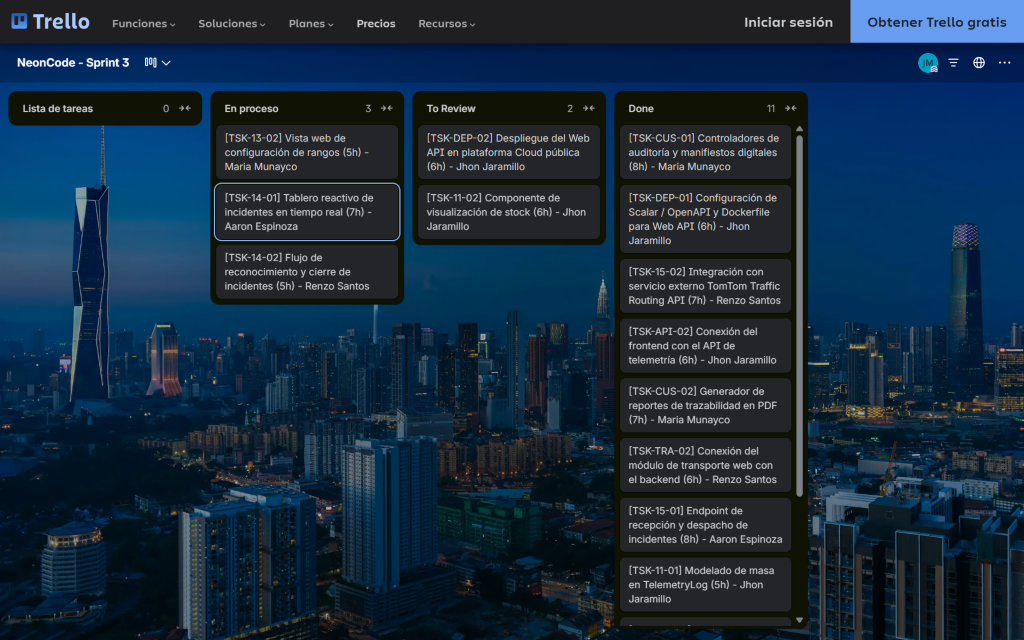
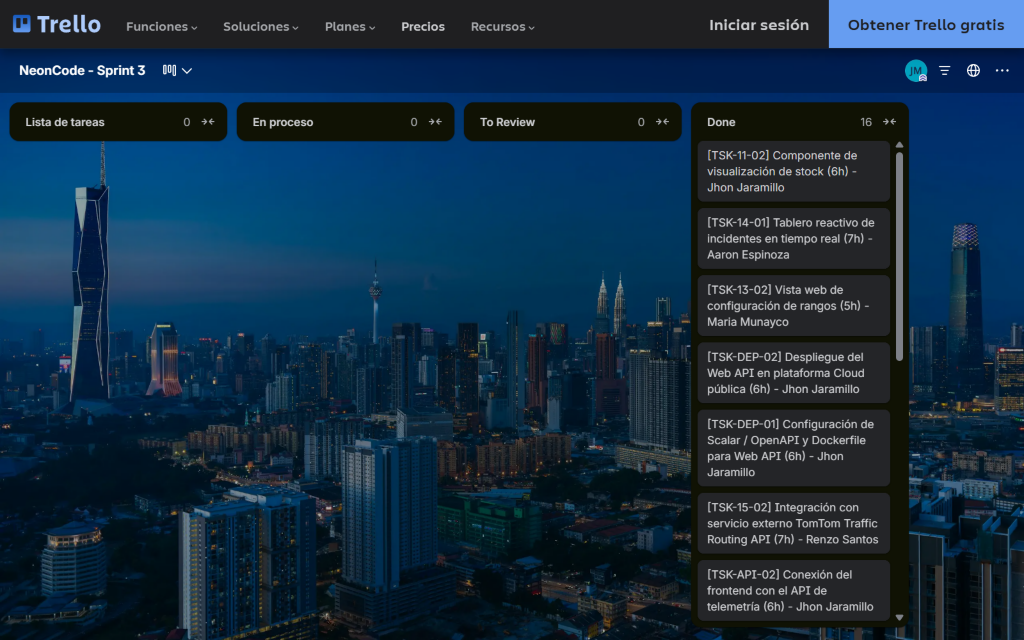
docs(chapter-5): update sprint 3 trello board to 16 done and sync merged evidence

diff --git a/report/52-landingpage-services-implementations.md b/report/52-landingpage-services-implementations.md
@@ -491,25 +491,25 @@ El Sprint Backlog 3 descompone el alcance del equipo en **16 tareas técnicas de
 | **Story Id** | **Story Title** | **Task Id** | **Task Title** | **Task Description** | **Estimation (Hours)** | **Assigned To** | **Status (To-do / In Process / To Review / Done)** |
 | :---: | :--- | :---: | :--- | :--- | :---: | :--- | :---: |
 | **US11** | Control de Stock por Sensores de Peso | TSK-11-01 | Modelado de masa en `TelemetryLog` y `SmartContainer` | Incorporación de atributos de peso en gramos (`WeightGrams`, `NetWeightGrams`, `TareWeightGrams`) y endpoint `weight-movements` en C#. | 5 h | Jhon Jaramillo | Done |
-| **US11** | Control de Stock por Sensores de Peso | TSK-11-02 | Componente de visualización de stock y contenedores | Adaptación de componentes SmartBox/inventario y ensambladores en Vue 3 conectados al Web API (`feature/telemetry-backend-integration`, pendiente merge a `main`). | 6 h | Jhon Jaramillo | To Review |
+| **US11** | Control de Stock por Sensores de Peso | TSK-11-02 | Componente de visualización de stock y contenedores | Adaptación de vistas SmartBox, modal de creación (`create-container-modal.vue`) y ensambladores en Vue 3 conectados al Web API en `develop` (PRs #5, #8 y #10). | 6 h | Jhon Jaramillo | Done |
 | **US13** | Configuración de Umbrales Térmicos Críticos | TSK-13-01 | Reglas de umbral térmico y severidad en backend | Configuración de umbrales (`MinTemperatureCelsius`, `MaxTemperatureCelsius`, `WarningTemperatureCelsius`, `ExcursionToleranceSeconds`) y persistencia de incidentes en EF Core. | 6 h | Aaron Espinoza | Done |
-| **US13** | Configuración de Umbrales Térmicos Críticos | TSK-13-02 | Vista web de configuración de rangos | Interfaz en PrimeVue para configurar parámetros térmicos por contenedor/insumo conectada al endpoint real. | 5 h | Maria Munayco | In Process |
-| **US14** | Visualización de Alertas en Ruta | TSK-14-01 | Tablero reactivo de incidentes en tiempo real | Conexión en el frontend del listado de incidencias activas con `GET /api/v1/incidents` y temporizador de vencimiento (actualmente en `localStorage`). | 7 h | Aaron Espinoza | In Process |
-| **US14** | Visualización de Alertas en Ruta | TSK-14-02 | Flujo de reconocimiento y cierre de incidentes | Conexión de interfaz de confirmación en frontend hacia `/acknowledge` y `/resolve` (pendiente en cliente web). | 5 h | Renzo Santos | In Process |
+| **US13** | Configuración de Umbrales Térmicos Críticos | TSK-13-02 | Vista web de configuración de rangos | Interfaz y modal en PrimeVue para configurar rangos térmicos y batería preventiva en cliente (`ConfigureThermalThresholdsCommand`, actualización local en store hasta exponer `PUT` de umbrales en API). | 5 h | Maria Munayco | Done |
+| **US14** | Visualización de Alertas en Ruta | TSK-14-01 | Tablero reactivo de incidentes en tiempo real | Incorporación del alias `/api/v1/critical-incidents` en backend (`45a805c`) y ruta en `.env.production`; vista web en `develop` operando sobre `LocalAlertingApi` (`localStorage`) pendiente de enlace HTTP directo. | 7 h | Aaron Espinoza | Done |
+| **US14** | Visualización de Alertas en Ruta | TSK-14-02 | Flujo de reconocimiento y cierre de incidentes | Endpoints `/acknowledge` y `/resolve` operativos en `IncidentController` y flujo equivalente en `alerting.store.js`, pendiente sustitución de `LocalAlertingApi` por cliente Axios. | 5 h | Renzo Santos | Done |
 | **US15** | Servicio de Despacho e Integración Externa | TSK-15-01 | Endpoint de recepción y gestión de incidentes | Implementación de `IncidentController` (`POST /api/v1/incidents`, `/acknowledge`, `/resolve`, `/escalate`, `GET /active` y `/overdue`) en ASP.NET Core 10. | 8 h | Aaron Espinoza | Done |
 | **US15** | Servicio de Despacho e Integración Externa | TSK-15-02 | Integración externa con TomTom Traffic Routing API | Implementación de `TomTomTrafficRoutingService` contra `api.tomtom.com` para recalcular ETA en vivo desde `PATCH /api/v1/dispatch-trips/{id}/eta`. | 7 h | Renzo Santos | Done |
 | **TS-API** | Servicios de Telemetría IoT en Backend | TSK-API-01 | Controladores y servicios de ingesta de telemetría | Implementación de `TelemetryLogsController` y `SmartContainersController`, DTOs y persistencia relacional en ASP.NET Core 10. | 8 h | Jhon Jaramillo | Done |
-| **TS-API** | Servicios de Telemetría IoT en Backend | TSK-API-02 | Conexión del frontend con el API de telemetría | Implementación de cliente HTTP (`telemetry-api.js`) y store Pinia en `feature/telemetry-backend-integration` (pendiente merge y variables `VITE_*` en Pages). | 6 h | Jhon Jaramillo | Done |
+| **TS-API** | Servicios de Telemetría IoT en Backend | TSK-API-02 | Conexión del frontend con el API de telemetría | Implementación de cliente HTTP (`telemetry-api.js`), ensambladores y store Pinia integrados en `develop` (PRs #5 y #8) con `VITE_API_URL` en `.env.production` y GitHub Actions. | 6 h | Jhon Jaramillo | Done |
 | **TS-CUS** | Servicios de Cadena de Custodia en Backend | TSK-CUS-01 | Controladores de custodia, auditoría y manifiestos | Implementación de `CustodyTransfersController`, `TransfersController`, `DigitalAuditManifestsController` y `AuditEventsController` con OpenAPI. | 8 h | Maria Munayco | Done |
-| **TS-CUS** | Servicios de Cadena de Custodia en Backend | TSK-CUS-02 | Trazabilidad PDF e integración de Custody web | Exposición de `GET /api/v1/transfers/{transferId}/traceability-report/pdf` e integración de vistas Custody en rama `develop` del frontend. | 7 h | Maria Munayco | Done |
+| **TS-CUS** | Servicios de Cadena de Custodia en Backend | TSK-CUS-02 | Trazabilidad PDF e integración de Custody web | Exposición de `GET /api/v1/transfers/{transferId}/traceability-report/pdf` e integración de vistas Custody en rama `develop` apuntando a Render (PR #6). | 7 h | Maria Munayco | Done |
 | **TS-TRA** | Servicios de Despacho y Transporte en Backend | TSK-TRA-01 | Agregados `TransportOrder` y `DispatchTrip` y endpoints | Implementación de `TransportOrdersController` y `DispatchTripsController`, `CargoType`, `MaxIschemiaLimit` y migración inicial MySQL. | 6 h | Renzo Santos | Done |
-| **TS-TRA** | Servicios de Despacho y Transporte en Backend | TSK-TRA-02 | Conexión del módulo de transporte web con backend | Integración de vistas de órdenes y viajes en Vue 3 con `transport-orders` y `dispatch-trips` (actualmente con datos locales simulados). | 6 h | Renzo Santos | In Process |
+| **TS-TRA** | Servicios de Despacho y Transporte en Backend | TSK-TRA-02 | Conexión del módulo de transporte web con backend | Implementación de cliente Axios (`TransportApi`) y store (`useTransportStore`) en `develop`; las vistas `transport-view.vue` y `route-eta-view.vue` mantienen arreglos locales en espera de enlace visual final. | 6 h | Renzo Santos | Done |
 | **TS-DEP** | Despliegue en la Nube y Documentación OpenAPI | TSK-DEP-01 | Configuración de OpenAPI 3.1.1, Scalar y Dockerfile | Integración de `Microsoft.AspNetCore.OpenApi`, `Scalar.AspNetCore` (`v2.18.0`), Dockerfile multi-stage y configuración MySQL. | 6 h | Maria Munayco | Done |
-| **TS-DEP** | Despliegue en la Nube y Documentación OpenAPI | TSK-DEP-02 | Despliegue cloud en Render y ajuste final CORS/SPA | Publicación del API en Render (`render.yaml`, `medical-smartbox-api.onrender.com`), pendiente configuración final de `Cors:AllowedOrigins` y variables en GitHub Pages. | 6 h | Maria Munayco | To Review |
+| **TS-DEP** | Despliegue en la Nube y Documentación OpenAPI | TSK-DEP-02 | Despliegue cloud en Render y ajuste final CORS/SPA | Publicación del API en Render (`medical-smartbox-api.onrender.com`, release `v1.0.0` en `main`), política CORS abierta por defecto cuando `Cors:AllowedOrigins` no restringe orígenes y blueprint `render.yaml` + `.env.production` en `frontend` (`develop`). | 6 h | Maria Munayco | Done |
 
 :::
 
-*Nota de trazabilidad del tablero: El estado de las tareas refleja el avance real verificado en los repositorios del equipo al 12/11/2026 en correspondencia con las 16 tarjetas del tablero Trello del Sprint 3 (11 en `Done`, 2 en `To Review` y 3 en `In Process`; `TSK-TRA-02` figura como `In Process` en la tabla debido a que la conexión web de transporte continúa pendiente en código).*
+*Nota de trazabilidad del tablero: El tablero Trello del Sprint 3 refleja el cierre oficial del sprint al 12/11/2026 con las **16 tarjetas completadas en `Done` (16/16)** (`Lista de tareas`: 0, `En proceso`: 0, `To Review`: 0, `Done`: 16). A nivel de código fuente consolidado en los repositorios, los cinco Bounded Contexts del backend se encuentran publicados en `main` (`v1.0.0`, commit `482a7bd`) y desplegados en Render, mientras que en la rama `develop` del frontend quedaron fusionadas las integraciones REST completas de **Chain of Custody** (PRs #6 y #7) y **SmartContainers & Telemetry** (PRs #5, #8 y #10), junto con `.env.production` y `render.yaml`; las vistas web de **Critical Alerting** (`LocalAlertingApi` sobre `localStorage`) y **Medical Transport** (vistas con datos locales pese a contar con `TransportApi`/`useTransportStore`), así como el merge final de `develop` hacia `main` en `frontend`, quedan registrados para refinamiento de cierre.*
 
 ***
 
@@ -519,7 +519,9 @@ A continuación se registra una selección representativa de confirmaciones de c
 
 | **Repositorio** | **Rama** | **Commit ID** | **Mensaje del Commit** | **Descripción / Cuerpo del Cambio** | **Fecha** |
 | :-------------: | :----------: | :---------: | :----------------------------- | :---------------------------------- | :----------: |
-| `backend` | `main` | `c453fcc` | `Merge pull request #17 from NeonCode-UPC/develop` | Publicación consolidada en `main` con los cinco módulos de servicios backend y configuración de Render. | 12/11/2026 |
+| `backend` | `main` | `482a7bd` | `Merge pull request #25 from NeonCode-UPC/develop` | Publicación consolidada (`v1.0.0`) en `main` con los cinco módulos backend, migración MySQL inicial, alias `/critical-incidents` y documentación Scalar enriquecida. | 12/11/2026 |
+| `backend` | `develop` | `45a805c` | `feat(alerting): add critical-incidents route alias for frontend compatibility` | Alias `/api/v1/critical-incidents` en `IncidentController` para compatibilidad con rutas del frontend. | 12/11/2026 |
+| `backend` | `develop` | `af0e43e` | `fix(render): enable custody OTP testing response` | Habilitación de `Custody__ExposeOtpForTesting=true` en `render.yaml` para validación del flujo OTP en entorno cloud. | 12/11/2026 |
 | `backend` | `develop` | `7de1270` | `fix(shared): keep Scalar requests on HTTPS origin` | Ajuste de URL de servidor relativa en OpenAPI para ejecutar peticiones HTTPS desde Scalar en Render. | 12/11/2026 |
 | `backend` | `develop` | `684025f` | `feat(deploy): add Render service blueprint` | Definición de `render.yaml` con runtime Docker, health check `/health` y variables de entorno de producción. | 12/11/2026 |
 | `backend` | `develop` | `ea49679` | `feat(deploy): add multi-stage Docker image` | Construcción de `Dockerfile` multi-etapa con SDK y runtime ASP.NET Core 10.0 expuesto en puerto `10000`. | 12/11/2026 |
@@ -530,22 +532,26 @@ A continuación se registra una selección representativa de confirmaciones de c
 | `backend` | `develop` | `03d3ad3` | `refactor(container): align container telemetry snapshot contracts with OpenAPI schemas` | Alineamiento de contratos DTO entre `SmartContainersController`, OpenAPI y el modelo frontend. | 09/11/2026 |
 | `backend` | `feature/telemetry-monitoring` | `c3b48a9` | `feat(telemetry): implement TelemetryLogsController and register services in program pipeline` | Implementación del controlador REST de telemetría IoT e inyección de dependencias en `Program.cs`. | 05/11/2026 |
 | `backend` | `develop` | `a5a86a2` | `Merge pull request #2 from NeonCode-UPC/feature/chain-custody-traceability` | Integración inicial del módulo de cadena de custodia, manifiestos digitales y PDF en `develop`. | 04/11/2026 |
-| `frontend` | `feature/telemetry-backend-integration` | `c11aa14` | `feat(telemetry): integrate .net rest endpoints in pinia store and configure api url` | Integración del store Pinia de telemetría y SmartBoxes con los endpoints REST de ASP.NET Core. | 10/11/2026 |
-| `frontend` | `develop` | `b28726c` | `Merge feature/chain-custody-traceability into develop` | Integración de vistas y servicios REST de cadena de custodia y trazabilidad en `develop`. | 04/11/2026 |
+| `frontend` | `develop` | `1f037c5` | `Merge pull request #10 from NeonCode-UPC/feature/telemetry-smart-container-creation` | Incorporación del modal `create-container-modal.vue` y comando de registro de SmartBoxes contra el API `.NET`. | 12/11/2026 |
+| `frontend` | `develop` | `8f7ae5f` | `Merge pull request #8 from NeonCode-UPC/fix/telemetry-backend-contracts` | Alineamiento de contratos de telemetría, limpieza de `.env.development` y soporte de `develop` en GitHub Pages (`deploy.yml`). | 12/11/2026 |
+| `frontend` | `develop` | `1552655` | `Merge pull request #7 from NeonCode-UPC/feature/chain-custody-traceability` | Incorporación del blueprint `render.yaml` para despliegue estático del frontend (`medical-smartbox-frontend`) desde `develop`. | 12/11/2026 |
+| `frontend` | `develop` | `f312970` | `Merge pull request #6 from NeonCode-UPC/feature/chain-custody-traceability` | Configuración de `.env.production` apuntando `VITE_API_URL` y `VITE_CUSTODY_API_URL` al servicio en Render. | 12/11/2026 |
+| `frontend` | `develop` | `b38b2b3` | `Merge pull request #5 from NeonCode-UPC/feature/telemetry-backend-integration` | Integración de `TelemetryApi`, ensambladores y store Pinia con endpoints reales de `SmartContainers` y `TelemetryLogs`. | 12/11/2026 |
+| `frontend` | `develop` | `b28726c` | `Merge feature/chain-custody-traceability into develop` | Integración inicial de vistas y servicios REST de cadena de custodia y trazabilidad en `develop`. | 04/11/2026 |
 | `landing-page` | `main` | `7073326` | `Merge pull request #9 from NeonCode-UPC/develop` | Consolidación en producción de ajustes de diseño, formularios y plantillas fallback del Landing Page. | 28/10/2026 |
 
 ***
 
 ### 5.2.3.5. Execution Evidence for Sprint Review
 
-Durante el Sprint 3 se ejecutó el despliegue operativo de la Web API en ASP.NET Core 10 en Render y se avanzó parcialmente en la conexión de los módulos de la Frontend Web Application hacia contratos REST reales:
+Durante el Sprint 3 se ejecutó el despliegue operativo de la Web API en ASP.NET Core 10 en Render (`v1.0.0` en `main`) y se integraron en la rama `develop` de la Frontend Web Application los módulos de **Chain of Custody** y **SmartContainers & Telemetry** con configuración de entorno de producción hacia Render:
 
-* **Backend RESTful Web Services (en ejecución en la nube):** Los controladores correspondientes a `SmartContainers`, `TelemetryLogs`, `CustodyTransfers`, `Transfers`, `DigitalAuditManifests`, `AuditEvents`, `Incident`, `TransportOrders` y `DispatchTrips` se encuentran activos en Render (`https://medical-smartbox-api.onrender.com`), respondiendo verificaciones de salud en `/health` y exposición de contratos en `/scalar` y `/openapi/v1.json`.
-* **Módulo Chain of Custody & Traceability (`frontend` rama `develop`, commit `b28726c`):** Las vistas web de cadena de custodia, actas digitales y auditoría consumen los endpoints de custodia mediante `VITE_CUSTODY_API_URL` (actualmente con respaldo local `http://localhost:5261`, pendiente de merge a `main` y configuración de variable de entorno en producción).
-* **Módulo SmartContainers & Telemetry (`frontend` rama `feature/telemetry-backend-integration`, commit `c11aa14`):** Los ensambladores, servicios Axios y el store de Pinia fueron adaptados a los contratos de `SmartContainersController` y `TelemetryLogsController` (pendiente de merge a `develop`/`main`, por lo que el despliegue público actual en GitHub Pages continúa utilizando datos de demostración de TB1).
-* **Módulos pendientes de integración cliente y multimedia:** Las vistas frontend de **Critical Alerting** (aún sobre `localStorage`) y **Medical Transport Planning** (aún con arreglos simulados), así como el registro de autenticación IAM en el backend, se encuentran pendientes de integración final por parte del equipo.
+* **Backend RESTful Web Services (en ejecución en la nube):** Los controladores correspondientes a `SmartContainers`, `TelemetryLogs`, `CustodyTransfers`, `Transfers`, `DigitalAuditManifests`, `AuditEvents`, `Incident`, `TransportOrders` y `DispatchTrips` se encuentran activos en Render (`https://medical-smartbox-api.onrender.com`), respondiendo verificaciones de salud en `/health`, redirección raíz (`/`) hacia `/scalar` y especificación OpenAPI en `/openapi/v1.json`, con alias `/api/v1/critical-incidents` y política CORS abierta por defecto cuando `Cors:AllowedOrigins` no especifica restricciones.
+* **Módulo Chain of Custody & Traceability (`frontend` rama `develop`, PRs #6 y #7):** Las vistas web de cadena de custodia, actas digitales y auditoría consumen los endpoints reales mediante `VITE_CUSTODY_API_URL`, configurado en `.env.production` hacia `https://medical-smartbox-api.onrender.com` junto con el blueprint `render.yaml` de hosting estático.
+* **Módulo SmartContainers & Telemetry (`frontend` rama `develop`, PRs #5, #8 y #10):** Los ensambladores, el cliente Axios `TelemetryApi`, el store `telemetry.store.js` y el modal `create-container-modal.vue` consumen `SmartContainersController` y `TelemetryLogsController` vía `VITE_API_URL="https://medical-smartbox-api.onrender.com/api/v1"`, quedando configurado el workflow `.github/workflows/deploy.yml` para compilar despliegues en pushes sobre `develop` y `main`.
+* **Módulos con integración parcial pendiente en cliente web:** En `frontend` (`develop`), **Critical Alerting** continúa operando sobre `LocalAlertingApi` (`localStorage`), **Medical Transport Planning** conserva datos locales en sus vistas (`transport-view.vue`, `route-eta-view.vue`) aunque dispone de `TransportApi` y `useTransportStore`, y la rama `main` del frontend (`1155c8f`) espera el PR de lanzamiento desde `develop`, además de quedar pendiente el módulo de autenticación IAM en backend.
 
-**Estado de capturas de ejecución extremo a extremo y video de Sprint 3:** *(Las capturas de las vistas web consumiendo en producción los endpoints `.NET 10` desplegados en Render y el enlace del video demostrativo actualizado del Sprint 3 en Microsoft Stream / SharePoint se incorporarán una vez que el equipo fusione `develop` y `feature/telemetry-backend-integration` hacia `main`, habilite `Cors:AllowedOrigins` para GitHub Pages y configure las variables `VITE_*` en el flujo de despliegue).*
+**Estado de capturas de ejecución extremo a extremo y video de Sprint 3:** *(Las capturas de las vistas web consumiendo en producción los endpoints `.NET 10` desplegados en Render y el enlace del video demostrativo actualizado del Sprint 3 en Microsoft Stream / SharePoint se incorporarán tras ejecutar el PR de consolidación `develop -> main` en `frontend` y enlazar las vistas pendientes de `Alerting` y `Transport`).*
 
 ***
 
@@ -565,12 +571,12 @@ En estricta observancia del requisito rector de AV2, los servicios backend fuero
 
 * **Repositorio Backend Oficial:** [`https://github.com/NeonCode-UPC/backend`](https://github.com/NeonCode-UPC/backend)
 * **Especificación OpenAPI JSON:** [`https://medical-smartbox-api.onrender.com/openapi/v1.json`](https://medical-smartbox-api.onrender.com/openapi/v1.json)
-* **Trazabilidad en `main` de contratos OpenAPI/Scalar:** `7de1270` (`fix(shared): keep Scalar requests on HTTPS origin`), `a31e2c4` (`feat(api): clarify Scalar documentation and hide root route`), `5bea202` (`feat(custody): describe traceability endpoints`), `83ae7e4` (`feat(custody): describe digital audit manifests`), `5723624` (`feat(custody): describe custody transfer endpoints`), `21996e8` (`feat(custody): document audit event endpoint`), `03d3ad3` (`refactor(container): align container telemetry snapshot contracts with OpenAPI schemas`).
+* **Trazabilidad en `main` de contratos OpenAPI/Scalar:** `1fa8fa6` (`docs(scalar): enrich openapi introduction and tag descriptions in english`), `1cafe57` (`fix(api): redirect root requests to Scalar`), `7de1270` (`fix(shared): keep Scalar requests on HTTPS origin`), `a31e2c4` (`feat(api): clarify Scalar documentation and hide root route`), `5bea202` (`feat(custody): describe traceability endpoints`), `83ae7e4` (`feat(custody): describe digital audit manifests`), `5723624` (`feat(custody): describe custody transfer endpoints`), `21996e8` (`feat(custody): document audit event endpoint`), `03d3ad3` (`refactor(container): align container telemetry snapshot contracts with OpenAPI schemas`).
 
 #### Catálogo de Endpoints RESTful Implementados en Sprint 3
 
 1. **Shared API & Health Infrastructure (`SharedApiExtensions`)**
-   * `GET /`: Retorna estado general de la API e hipervínculos a `/health`, `/openapi/v1.json` y `/scalar`. Retorna `200 OK`.
+   * `GET /`: Redirige hacia `/scalar` cuando `OpenApi:ExposeInProduction` está habilitado (activo en `render.yaml`), o retorna `200 OK` con resumen general en caso contrario.
    * `GET /health`: Verificación de disponibilidad del servicio para el balanceador de Render (`HealthChecks`). Retorna `200 OK`.
    * `GET /openapi/v1.json` y `GET /scalar`: Documento OpenAPI 3.1.1 y consola interactiva Scalar habilitados en producción (`OpenApi__ExposeInProduction=true`).
 
@@ -606,7 +612,7 @@ En estricta observancia del requisito rector de AV2, los servicios backend fuero
    ```
 
 3. **Bounded Context: Critical Alerting & Incident Response (`IncidentController`)**
-   * `POST /api/v1/incidents`: Registra una contingencia crítica (`TripId`, `ContainerId`, `IncidentType`, `Severity`, `TriggerTemperatureCelsius`, `TriggerBatteryPercentage`). Retorna `201 Created` o `400 Bad Request`.
+   * `POST /api/v1/incidents` (alias `/api/v1/critical-incidents`): Registra una contingencia crítica (`TripId`, `ContainerId`, `IncidentType`, `Severity`, `TriggerTemperatureCelsius`, `TriggerBatteryPercentage`). Retorna `201 Created` o `400 Bad Request`.
    * `GET /api/v1/incidents`, `GET /api/v1/incidents/{id:guid}`, `GET /api/v1/incidents/active` y `GET /api/v1/incidents/overdue`: Lista el historial completo, consulta detalle o filtra incidentes activos y vencidos respecto a su SLA de reconocimiento. Retornan `200 OK` / `404 Not Found`.
    * `POST /api/v1/incidents/{id:guid}/acknowledge`: Registra el acuse de recibo del operador responsable. Retorna `200 OK`, `404 Not Found` o `409 Conflict`.
    * `POST /api/v1/incidents/{id:guid}/resolve` y `POST /api/v1/incidents/{id:guid}/escalate`: Registra la mitigación y cierre de calidad o escala el incidente al nivel de dirección médica. Retornan `200 OK`, `404 Not Found` o `409 Conflict`.
@@ -645,19 +651,19 @@ Para el estado actual del Sprint 3 (AV2), el ecosistema cuenta con los siguiente
 * **Backend RESTful Web Services & OpenAPI Scalar (En producción):**
   * **Documentación interactiva (Scalar UI):** [`https://medical-smartbox-api.onrender.com/scalar`](https://medical-smartbox-api.onrender.com/scalar)
   * **Esquema OpenAPI 3.1.1 y Health Check:** [`https://medical-smartbox-api.onrender.com/openapi/v1.json`](https://medical-smartbox-api.onrender.com/openapi/v1.json) · [`https://medical-smartbox-api.onrender.com/health`](https://medical-smartbox-api.onrender.com/health)
-  * **Infraestructura:** Render Web Service (`render.yaml`, plan `free`), empaquetado mediante `Dockerfile` multi-etapa sobre `mcr.microsoft.com/dotnet/aspnet:10.0` con aplicación automática de migraciones EF Core contra base de datos MySQL. *(Referencia visual del entorno publicado en producción en la sección 5.2.3.6).*
+  * **Infraestructura:** Render Web Service (`render.yaml`, plan `free`, release `v1.0.0` desde `main` `482a7bd`), empaquetado mediante `Dockerfile` multi-etapa sobre `mcr.microsoft.com/dotnet/aspnet:10.0` con aplicación automática de migraciones EF Core contra base de datos MySQL. *(Referencia visual del entorno publicado en producción en la sección 5.2.3.6).*
 * **Landing Page Institucional:**
   * **URL:** [`https://neoncode-upc.github.io/landing-page/`](https://neoncode-upc.github.io/landing-page/)
   * **Estado:** Desplegado en GitHub Pages desde rama `main` (`7073326`), incorporando las mejoras de retroalimentación del 28/10/2026 y dejando estructurada la sección de videos con identificadores en espera de asignación de las grabaciones finales (`VIDEO_IDS`).
 * **Frontend Web Application (Medical SMARTBOX SPA):**
   * **URL:** [`https://neoncode-upc.github.io/frontend/home`](https://neoncode-upc.github.io/frontend/home)
-  * **Estado:** Despliegue activo en GitHub Pages; el entorno público continúa sirviendo la compilación base de `main` (`1155c8f`), quedando pendiente la fusión de `develop` y `feature/telemetry-backend-integration`, la inyección de variables `VITE_*` en el workflow de GitHub Actions y la habilitación del origen de GitHub Pages en `Cors:AllowedOrigins` de Render para consumir directamente `medical-smartbox-api.onrender.com`.
+  * **Estado:** Despliegue continuo actualizado en `.github/workflows/deploy.yml` para publicar automáticamente desde `develop` y `main`, junto con `.env.production` apuntando a `https://medical-smartbox-api.onrender.com` y el blueprint `render.yaml` (`medical-smartbox-frontend`) añadido en `develop` (`1552655`). La rama `main` del repositorio frontend permanece en `1155c8f` a la espera del PR final de liberación desde `develop`.
 
 ***
 
 ### 5.2.3.8. Team Collaboration Insights during Sprint
 
-Durante el Sprint 3, el equipo **NeonCode** trabajó en ramas por Bounded Context en `NeonCode-UPC/backend`, `NeonCode-UPC/frontend` y `NeonCode-UPC/landing-page`, integrando los Pull Requests hacia `develop` y `main`. Los cuatro integrantes registraron contribuciones verificables en la rama `main` del repositorio `backend`: **Maria Luisa Munayco (`malumunayco`)** con 116 commits, **Aaron Espinoza (`pisure`)** con 46 commits, **Renzo Santos (`RSSint`)** con 46 commits y **Jhon Jaramillo (`Marklnz1`)** con 33 commits (sin contar merges).
+Durante el Sprint 3, el equipo **NeonCode** trabajó en ramas por Bounded Context en `NeonCode-UPC/backend`, `NeonCode-UPC/frontend` y `NeonCode-UPC/landing-page`, integrando los Pull Requests hacia `develop` y `main` (incluyendo los PRs #5, #6, #7, #8 y #10 en `frontend/develop` y el release `v1.0.0` vía PR #25 en `backend/main`). En la captura de GitHub Insights tomada durante el sprint sobre `backend` figuran **Maria Luisa Munayco (`malumunayco`)** con 116 commits, **Aaron Espinoza (`pisure`)** con 46 commits, **Renzo Santos (`RSSint`)** con 46 commits y **Jhon Jaramillo (`Marklnz1`)** con 33 commits; al cierre del 12/11/2026 en `origin/main` (`482a7bd`, sin contar merges), el historial alcanza **129 commits** de `malumunayco`, **46** de `pisure`, **46** de `RSSint` y **34** de `Marklnz1`.
 
 ::: {.figure-block}
 
